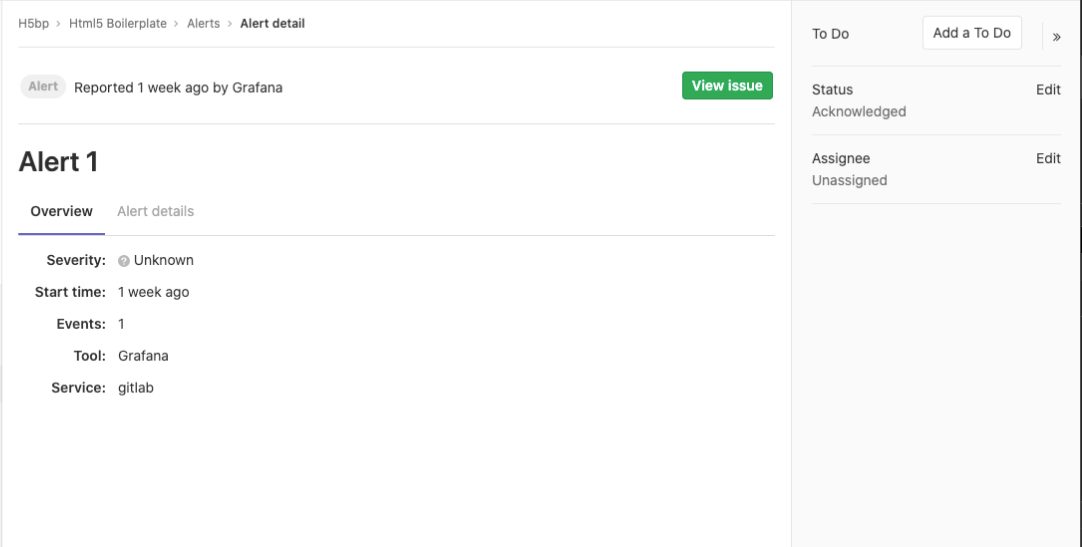
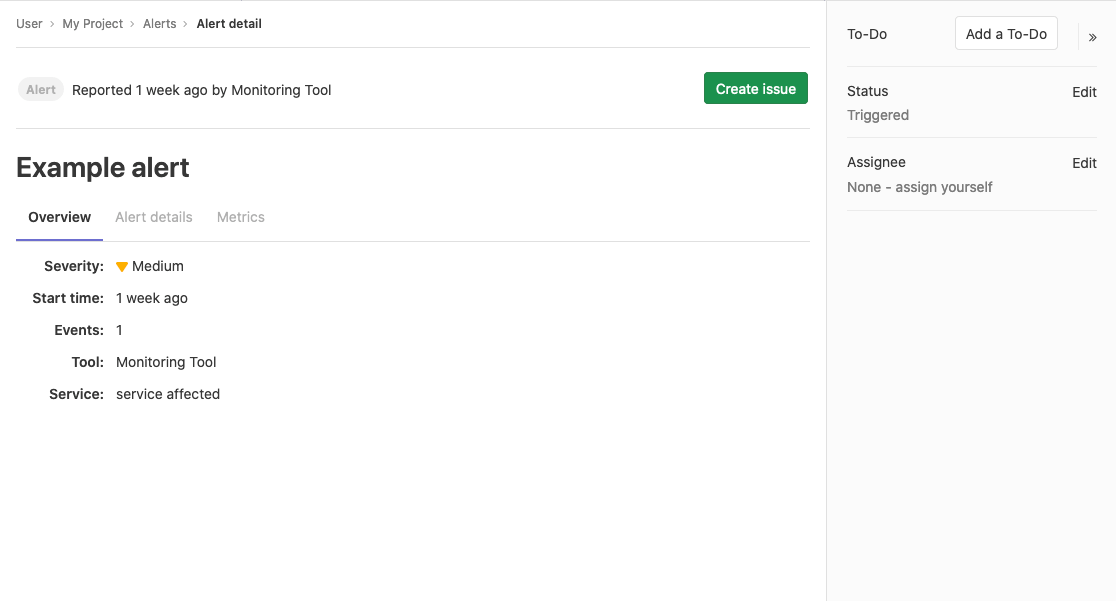
Add hyphen to 'To-Do' for alert sidebar

diff --git a/spec/frontend/alert_management/components/alert_management_sidebar_todo_spec.js b/spec/frontend/alert_management/components/alert_management_sidebar_todo_spec.js
@@ -52,9 +52,9 @@ describe('Alert Details Sidebar To Do', () => {
       });
     });
 
-    it('renders a button for adding a To Do', () => {
+    it('renders a button for adding a To-Do', () => {
       return wrapper.vm.$nextTick().then(() => {
-        expect(wrapper.find('[data-testid="alert-todo-button"]').text()).toBe('Add a To Do');
+        expect(wrapper.find('[data-testid="alert-todo-button"]').text()).toBe('Add a To-Do');
       });
     });
 

diff --git a/spec/frontend/sidebar/todo_spec.js b/spec/frontend/sidebar/todo_spec.js
@@ -36,7 +36,7 @@ describe('SidebarTodo', () => {
 
   it.each`
     isTodo   | iconClass        | label             | icon
-    ${false} | ${''}            | ${'Add a To Do'}  | ${'todo-add'}
+    ${false} | ${''}            | ${'Add a To-Do'}  | ${'todo-add'}
     ${true}  | ${'todo-undone'} | ${'Mark as done'} | ${'todo-done'}
   `(
     'renders proper button when `isTodo` prop is `$isTodo`',

diff --git a/app/assets/javascripts/alert_management/components/sidebar/sidebar_todo.vue b/app/assets/javascripts/alert_management/components/sidebar/sidebar_todo.vue
@@ -7,7 +7,7 @@ import createAlertTodo from '../../graphql/mutations/alert_todo_create.graphql';
 export default {
   i18n: {
     UPDATE_ALERT_TODO_ERROR: s__(
-      'AlertManagement|There was an error while updating the To Do of the alert.',
+      'AlertManagement|There was an error while updating the To-Do of the alert.',
     ),
   },
   components: {

diff --git a/app/assets/javascripts/alert_management/components/sidebar/sidebar_header.vue b/app/assets/javascripts/alert_management/components/sidebar/sidebar_header.vue
@@ -27,7 +27,7 @@ export default {
 <template>
   <div class="block gl-display-flex gl-justify-content-space-between">
     <span class="issuable-header-text hide-collapsed">
-      {{ __('To Do') }}
+      {{ __('To-Do') }}
     </span>
     <sidebar-todo
       v-if="!sidebarCollapsed"

diff --git a/app/assets/javascripts/sidebar/components/todo_toggle/todo.vue b/app/assets/javascripts/sidebar/components/todo_toggle/todo.vue
@@ -6,7 +6,7 @@ import tooltip from '~/vue_shared/directives/tooltip';
 import Icon from '~/vue_shared/components/icon.vue';
 
 const MARK_TEXT = __('Mark as done');
-const TODO_TEXT = __('Add a To Do');
+const TODO_TEXT = __('Add a To-Do');
 
 export default {
   directives: {

diff --git a/ee/spec/features/epics/todo_spec.rb b/ee/spec/features/epics/todo_spec.rb
@@ -16,7 +16,7 @@ RSpec.describe 'Manually create a todo item from epic', :js do
 
   it 'creates todo when clicking button' do
     page.within '.issuable-sidebar' do
-      click_button 'Add a To Do'
+      click_button 'Add a To-Do'
 
       expect(page).to have_content 'Mark as done'
     end
@@ -28,7 +28,7 @@ RSpec.describe 'Manually create a todo item from epic', :js do
 
   it 'marks a todo as done' do
     page.within '.issuable-sidebar' do
-      click_button 'Add a To Do'
+      click_button 'Add a To-Do'
     end
 
     expect(page).to have_selector('.todos-count', visible: true)
